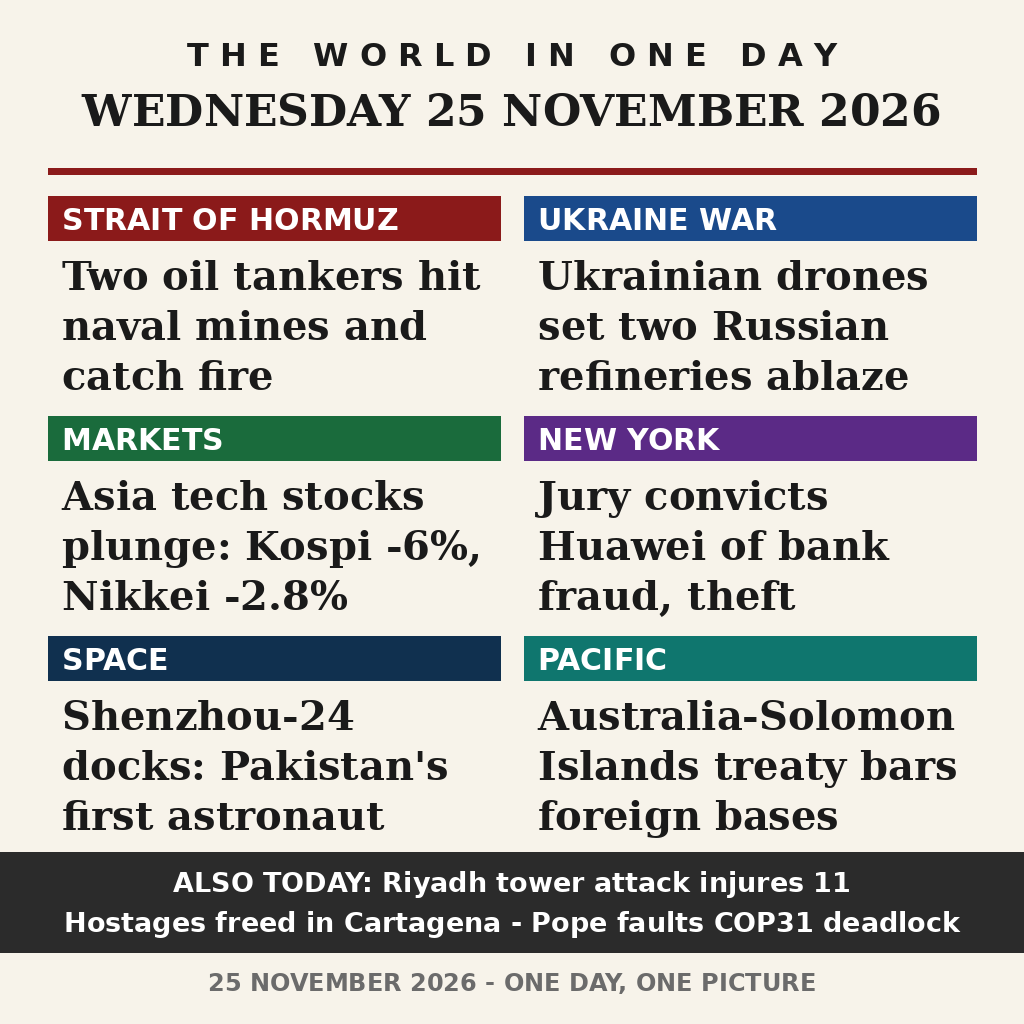
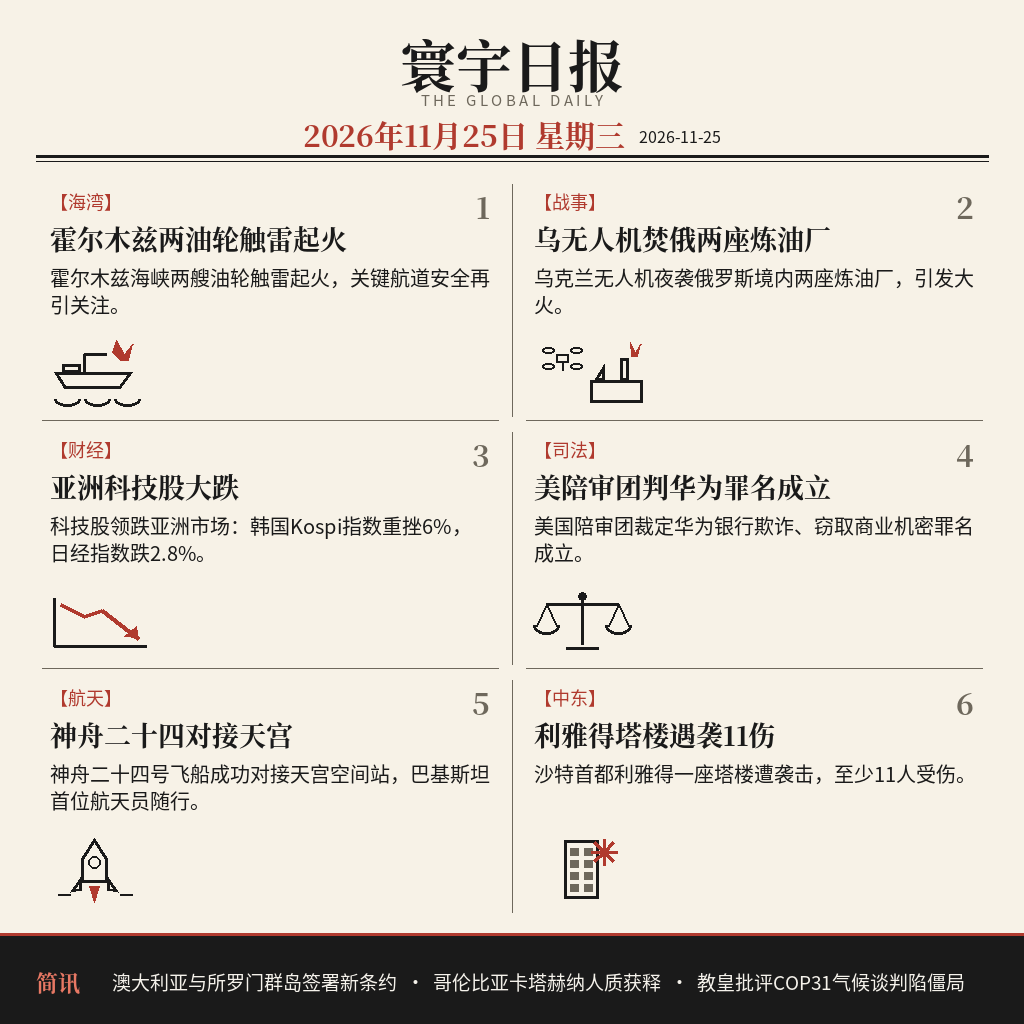
Rebuild entry: verified PIL newspaper front page (deterministic draw.py, self-checked entry.png)

diff --git a/draw.py b/draw.py
@@ -1,118 +1,251 @@
-"""Build-time generator for entry.png (run locally, NOT in the judging sandbox).
+#!/usr/bin/env python3
+"""Draw entry.png: a newspaper-style front page of 2026-11-25 world news.
 
-Deterministically draws a 1024x1024 newspaper-style summary of the world
-news of Wednesday 25 November 2026 and saves it as entry.png next to this
-file. No randomness, no timestamps, no text metadata in the PNG.
+Pure PIL, deterministic: no network, no randomness, no clock reads.
+Only the three system font files below are read.
 """
+import math
+import os
 
 from PIL import Image, ImageDraw, ImageFont
 
-W = H = 1024
-BG = "#f7f3ea"
-INK = "#1a1a1a"
-RED = "#8b1a1a"
-GREY = "#6b6b6b"
-BAR_BG = "#2b2b2b"
+SERIF_BOLD = "/usr/share/fonts/opentype/noto/NotoSerifCJK-Bold.ttc"
+SERIF_REG = "/usr/share/fonts/opentype/noto/NotoSerifCJK-Regular.ttc"
+SANS_REG = "/usr/share/fonts/opentype/noto/NotoSansCJK-Regular.ttc"
+FONT_INDEX = 2  # Simplified Chinese face inside the TTC collections
 
-SERIF = "/usr/share/fonts/truetype/dejavu/DejaVuSerif-Bold.ttf"
-SANS = "/usr/share/fonts/truetype/dejavu/DejaVuSans-Bold.ttf"
+W, H = 1024, 1024
+PAPER = (247, 242, 231)   # #f7f2e7
+INK = (26, 26, 26)        # #1a1a1a
+RED = (176, 58, 46)       # #b03a2e
+GREY = (110, 104, 92)
+WHITE = (245, 242, 235)
+LIGHT_RED = (232, 120, 100)
+
+MARGIN = 36
 
 
 def font(path, size):
-    return ImageFont.truetype(path, size)
-
-
-def centered(draw, y, text, fnt, fill):
-    w = draw.textlength(text, font=fnt)
-    draw.text(((W - w) / 2, y), text, font=fnt, fill=fill)
-    return y
+    return ImageFont.truetype(path, size, index=FONT_INDEX)
 
 
 def wrap(draw, text, fnt, max_width):
-    words = text.split()
+    """Wrap text by measured pixel width, character by character."""
     lines, cur = [], ""
-    for word in words:
-        trial = word if not cur else cur + " " + word
-        if draw.textlength(trial, font=fnt) <= max_width:
+    for ch in text:
+        trial = cur + ch
+        if ch in "。，、；：％%）":
+            # closing punctuation never starts a new line
             cur = trial
+        elif cur and draw.textlength(trial, font=fnt) > max_width:
+            lines.append(cur)
+            cur = ch
         else:
-            if cur:
-                lines.append(cur)
-            cur = word
+            cur = trial
     if cur:
         lines.append(cur)
-    return lines[:3]
+    return lines
 
 
-ITEMS = [
-    ("#8b1a1a", "STRAIT OF HORMUZ", "Two oil tankers hit naval mines and catch fire"),
-    ("#1a4a8b", "UKRAINE WAR", "Ukrainian drones set two Russian refineries ablaze"),
-    ("#1a6b3c", "MARKETS", "Asia tech stocks plunge: Kospi -6%, Nikkei -2.8%"),
-    ("#5b2a86", "NEW YORK", "Jury convicts Huawei of bank fraud, theft"),
-    ("#10304f", "SPACE", "Shenzhou-24 docks: Pakistan's first astronaut"),
-    ("#0f766e", "PACIFIC", "Australia-Solomon Islands treaty bars foreign bases"),
+def center(draw, text, fnt, y, fill):
+    w = draw.textlength(text, font=fnt)
+    draw.text(((W - w) / 2, y), text, font=fnt, fill=fill)
+    return w
+
+
+# ---------------------------------------------------------------- pictograms
+def pic_ship(d, x, y):
+    # tanker hull + mast + waves + flame
+    d.polygon([(x, y + 26), (x + 78, y + 26), (x + 66, y + 42), (x + 10, y + 42)],
+              outline=INK, width=3)
+    d.line([(x + 30, y + 26), (x + 30, y + 8), (x + 52, y + 8)], fill=INK, width=3)
+    d.rectangle([x + 8, y + 18, x + 26, y + 26], outline=INK, width=3)
+    for i in range(3):
+        wx = x + i * 30
+        d.arc([wx, y + 46, wx + 26, y + 60], 0, 180, fill=INK, width=3)
+    d.polygon([(x + 62, y - 6), (x + 70, y + 8), (x + 78, y - 2),
+               (x + 74, y + 14), (x + 66, y + 14), (x + 58, y + 6)], fill=RED)
+
+
+def pic_drone_factory(d, x, y):
+    # quadcopter drone above a factory, small flame
+    cx, cy = x + 24, y + 12
+    for dx, dy in ((-14, -8), (14, -8), (-14, 8), (14, 8)):
+        d.ellipse([cx + dx - 6, cy + dy - 3, cx + dx + 6, cy + dy + 3],
+                  outline=INK, width=2)
+    d.rectangle([cx - 6, cy - 4, cx + 6, cy + 4], outline=INK, width=2)
+    d.line([(cx, cy + 4), (cx, cy + 12)], fill=INK, width=2)
+    fx = x + 52
+    d.rectangle([fx, y + 34, fx + 52, y + 56], outline=INK, width=3)
+    d.polygon([(fx + 4, y + 34), (fx + 14, y + 18), (fx + 14, y + 34)],
+              outline=INK, width=3)
+    d.rectangle([fx + 30, y + 12, fx + 38, y + 34], outline=INK, width=3)
+    d.polygon([(fx + 40, y - 4), (fx + 45, y + 6), (fx + 50, y - 2),
+               (fx + 47, y + 10), (fx + 41, y + 10)], fill=RED)
+
+
+def pic_chart(d, x, y):
+    # falling polyline with arrow head, axis
+    d.line([(x, y + 4), (x, y + 52), (x + 92, y + 52)], fill=INK, width=3)
+    pts = [(x + 6, y + 10), (x + 30, y + 22), (x + 48, y + 16), (x + 84, y + 44)]
+    d.line(pts, fill=RED, width=4)
+    d.polygon([(x + 84, y + 44), (x + 70, y + 42), (x + 82, y + 32)], fill=RED)
+
+
+def pic_scales(d, x, y):
+    # balance scales
+    cx = x + 44
+    d.line([(cx, y + 2), (cx, y + 50)], fill=INK, width=3)
+    d.line([(x + 8, y + 10), (x + 80, y + 10)], fill=INK, width=3)
+    d.ellipse([cx - 4, y - 2, cx + 4, y + 6], fill=INK)
+    for px in (x + 8, x + 80):
+        d.line([(px, y + 10), (px - 10, y + 32)], fill=INK, width=2)
+        d.line([(px, y + 10), (px + 10, y + 32)], fill=INK, width=2)
+        d.arc([px - 13, y + 22, px + 13, y + 40], 0, 180, fill=INK, width=3)
+    d.line([(x + 28, y + 54), (x + 60, y + 54)], fill=INK, width=3)
+
+
+def pic_rocket(d, x, y):
+    # rocket with window and flame
+    cx = x + 40
+    d.polygon([(cx, y - 4), (cx + 13, y + 16), (cx + 13, y + 40),
+               (cx - 13, y + 40), (cx - 13, y + 16)], outline=INK, width=3)
+    d.ellipse([cx - 6, y + 14, cx + 6, y + 26], outline=INK, width=2)
+    d.polygon([(cx - 13, y + 34), (cx - 24, y + 50), (cx - 13, y + 48)],
+              outline=INK, width=3)
+    d.polygon([(cx + 13, y + 34), (cx + 24, y + 50), (cx + 13, y + 48)],
+              outline=INK, width=3)
+    d.polygon([(cx - 5, y + 44), (cx, y + 60), (cx + 5, y + 44)], fill=RED)
+    d.line([(x + 4, y + 52), (x + 16, y + 52)], fill=INK, width=2)
+    d.line([(x + 66, y + 52), (x + 78, y + 52)], fill=INK, width=2)
+
+
+def pic_tower(d, x, y):
+    # tower block with windows and an impact star
+    tx = x + 26
+    d.rectangle([tx, y - 2, tx + 34, y + 56], outline=INK, width=3)
+    for r in range(4):
+        for c in range(2):
+            d.rectangle([tx + 6 + c * 14, y + 6 + r * 12,
+                         tx + 14 + c * 14, y + 13 + r * 12], fill=GREY)
+    cx, cy = tx + 40, y + 10
+    for a in range(0, 360, 45):
+        x2 = cx + 13 * math.cos(math.radians(a))
+        y2 = cy + 13 * math.sin(math.radians(a))
+        d.line([(cx, cy), (x2, y2)], fill=RED, width=3)
+    d.ellipse([cx - 3, cy - 3, cx + 3, cy + 3], fill=RED)
+
+
+PICTOGRAMS = [pic_ship, pic_drone_factory, pic_chart,
+              pic_scales, pic_rocket, pic_tower]
+
+
+NEWS = [
+    ("海湾", "霍尔木兹两油轮触雷起火",
+     "霍尔木兹海峡两艘油轮触雷起火，关键航道安全再引关注。"),
+    ("战事", "乌无人机焚俄两座炼油厂",
+     "乌克兰无人机夜袭俄罗斯境内两座炼油厂，引发大火。"),
+    ("财经", "亚洲科技股大跌",
+     "科技股领跌亚洲市场：韩国Kospi指数重挫6%，日经指数跌2.8%。"),
+    ("司法", "美陪审团判华为罪名成立",
+     "美国陪审团裁定华为银行欺诈、窃取商业机密罪名成立。"),
+    ("航天", "神舟二十四对接天宫",
+     "神舟二十四号飞船成功对接天宫空间站，巴基斯坦首位航天员随行。"),
+    ("中东", "利雅得塔楼遇袭11伤",
+     "沙特首都利雅得一座塔楼遭袭击，至少11人受伤。"),
+]
+
+BRIEFS = [
+    "澳大利亚与所罗门群岛签署新条约",
+    "哥伦比亚卡塔赫纳人质获释",
+    "教皇批评COP31气候谈判陷僵局",
 ]
 
 
-def main() -> None:
-    img = Image.new("RGB", (W, H), BG)
-    draw = ImageDraw.Draw(img)
+def main():
+    img = Image.new("RGB", (W, H), PAPER)
+    d = ImageDraw.Draw(img)
 
-    # --- Header ---
-    f_kicker = font(SANS, 32)
-    kicker = "T H E   W O R L D   I N   O N E   D A Y"
-    centered(draw, 36, kicker, f_kicker, INK)
+    # ------------------------------------------------------------- masthead
+    f_mast = font(SERIF_BOLD, 56)
+    center(d, "寰宇日报", f_mast, 22, INK)
+    f_eng = font(SANS_REG, 15)
+    eng = "T H E   G L O B A L   D A I L Y"
+    ew = d.textlength(eng, font=f_eng)
+    d.text(((W - ew) / 2, 88), eng, font=f_eng, fill=GREY)
 
-    f_title = font(SERIF, 44)
-    centered(draw, 84, "WEDNESDAY 25 NOVEMBER 2026", f_title, INK)
+    f_date = font(SERIF_BOLD, 30)
+    date_main = "2026年11月25日 星期三"
+    dw = d.textlength(date_main, font=f_date)
+    f_date_small = font(SANS_REG, 16)
+    date_small = "2026-11-25"
+    sw = d.textlength(date_small, font=f_date_small)
+    total = dw + 14 + sw
+    x0 = (W - total) / 2
+    d.text((x0, 112), date_main, font=f_date, fill=RED)
+    d.text((x0 + dw + 14, 124), date_small, font=f_date_small, fill=INK)
 
-    draw.rectangle([48, 168, W - 48, 174], fill=RED)
+    # double rule under the masthead
+    d.line([(MARGIN, 156), (W - MARGIN, 156)], fill=INK, width=3)
+    d.line([(MARGIN, 161), (W - MARGIN, 161)], fill=INK, width=1)
 
-    # --- News grid: 2 columns x 3 rows ---
-    margin = 48
-    gap_x = 24
-    gap_y = 20
-    grid_top = 196
-    grid_bottom = 836
-    cell_w = (W - 2 * margin - gap_x) // 2
-    cell_h = (grid_bottom - grid_top - 2 * gap_y) // 3
+    # ------------------------------------------------------------- news grid
+    grid_top = 176
+    bar_top = H - 90
+    grid_bottom = bar_top - 14
+    col_w = (W - 2 * MARGIN - 16) / 2
+    row_h = (grid_bottom - grid_top) / 3
 
-    f_label = font(SANS, 30)
-    f_head = font(SERIF, 40)
-    label_h = 44
-    pad = 14
-    line_h = 50
+    f_cat = font(SANS_REG, 18)
+    f_title = font(SERIF_BOLD, 27)
+    f_body = font(SANS_REG, 20)
 
-    for idx, (color, region, headline) in enumerate(ITEMS):
-        col = idx % 2
-        row = idx // 2
-        x0 = margin + col * (cell_w + gap_x)
-        y0 = grid_top + row * (cell_h + gap_y)
-        x1 = x0 + cell_w
-        # label bar
-        draw.rectangle([x0, y0, x1, y0 + label_h], fill=color)
-        draw.text((x0 + pad, y0 + 6), region, font=f_label, fill="#ffffff")
-        # headline, wrapped to cell width
-        lines = wrap(draw, headline, f_head, cell_w - 2 * pad)
-        ty = y0 + label_h + 12
-        for line in lines:
-            draw.text((x0 + pad, ty), line, font=f_head, fill=INK)
-            ty += line_h
+    for i, (cat, title, body) in enumerate(NEWS):
+        col, row = i % 2, i // 2
+        cx = MARGIN + col * (col_w + 16)
+        cy = grid_top + row * row_h
+        inner_w = col_w - 28
+        tx = cx + 14
+        ty = cy + 12
+        # category tag
+        d.text((tx, ty), "【" + cat + "】", font=f_cat, fill=RED)
+        # big index number, top right of the cell
+        f_num = font(SERIF_BOLD, 30)
+        num = str(i + 1)
+        nw = d.textlength(num, font=f_num)
+        d.text((cx + col_w - 14 - nw, ty - 4), num, font=f_num, fill=GREY)
+        # title
+        d.text((tx, ty + 30), title, font=f_title, fill=INK)
+        # body, at most 3 lines
+        lines = wrap(d, body, f_body, inner_w)[:3]
+        for j, ln in enumerate(lines):
+            d.text((tx, ty + 74 + j * 27), ln, font=f_body, fill=INK)
+        # pictogram
+        PICTOGRAMS[i](d, tx + 4, cy + row_h - 78)
+        # separators
+        if col == 0:
+            d.line([(MARGIN + col_w + 8, cy + 8),
+                    (MARGIN + col_w + 8, cy + row_h - 8)], fill=GREY, width=1)
+        if row < 2:
+            d.line([(cx + 6, cy + row_h - 4), (cx + col_w - 6, cy + row_h - 4)],
+                   fill=GREY, width=1)
 
-    # --- Bottom bar ---
-    bar_top = 852
-    bar_bottom = 952
-    draw.rectangle([0, bar_top, W, bar_bottom], fill=BAR_BG)
-    f_bar = font(SANS, 27)
-    centered(draw, bar_top + 14, "ALSO TODAY: Riyadh tower attack injures 11", f_bar, "#ffffff")
-    centered(draw, bar_top + 54, "Hostages freed in Cartagena - Pope faults COP31 deadlock", f_bar, "#ffffff")
+    # ------------------------------------------------------------- briefs bar
+    d.rectangle([0, bar_top, W, H], fill=INK)
+    f_tag = font(SERIF_BOLD, 22)
+    d.text((MARGIN, bar_top + 31), "简讯", font=f_tag, fill=LIGHT_RED)
+    f_brief = font(SANS_REG, 19)
+    brief_text = "  •  ".join(BRIEFS)
+    blines = wrap(d, brief_text, f_brief, W - 2 * MARGIN - 76)[:2]
+    brief_y = bar_top + (90 - len(blines) * 28) // 2 + 2
+    for j, ln in enumerate(blines):
+        d.text((MARGIN + 76, brief_y + j * 28), ln, font=f_brief, fill=WHITE)
+    # thin red rule on top of the bar
+    d.line([(0, bar_top), (W, bar_top)], fill=RED, width=3)
 
-    # --- Footer ---
-    f_foot = font(SANS, 24)
-    centered(draw, 968, "25 NOVEMBER 2026 - ONE DAY, ONE PICTURE", f_foot, GREY)
-
-    out_path = __file__.rsplit("/", 1)[0] + "/entry.png"
-    img.save(out_path)
+    out = os.path.join(os.path.dirname(os.path.abspath(__file__)), "entry.png")
+    img.save(out, format="PNG")
+    print(out)
 
 
 if __name__ == "__main__":

diff --git a/main.py b/main.py
@@ -1,23 +1,18 @@
-"""make.fun entry: copy the pre-built news image to the output directory.
-
-The judging sandbox provides only the Python standard library, so this
-program does exactly one thing: copy entry.png (which lives next to this
-file) into the output directory as entry.png.
-"""
-
+#!/usr/bin/env python3
+"""make.fun entry point: copy the drawn entry.png into the output dir."""
 import os
 import shutil
 
-OUTPUT_NAME = "entry.png"
+HERE = os.path.dirname(os.path.abspath(__file__))
+SRC = os.path.join(HERE, "entry.png")
+OUT_DIR = os.environ.get("MAKEFUN_OUTPUT_DIR", "/output")
 
 
-def main() -> None:
-    here = os.path.dirname(os.path.abspath(__file__))
-    src = os.path.join(here, OUTPUT_NAME)
-    out_dir = os.environ.get("MAKEFUN_OUTPUT_DIR", "/output")
-    os.makedirs(out_dir, exist_ok=True)
-    dst = os.path.join(out_dir, OUTPUT_NAME)
-    shutil.copyfile(src, dst)
+def main():
+    os.makedirs(OUT_DIR, exist_ok=True)
+    dst = os.path.join(OUT_DIR, "entry.png")
+    shutil.copyfile(SRC, dst)
+    print(dst)
 
 
 if __name__ == "__main__":

diff --git a/README.md b/README.md
@@ -1,7 +1,9 @@
-# News Image — 25 November 2026
+# news-image-20261125 — 寰宇日报新闻图
 
-This is the entry repository for the make.fun **news-image-20261125** bounty: the world news of 25 November 2026 summarised in a single picture. The program (`main.py`, Python standard library only) copies the pre-built `entry.png` to `/output/entry.png`; the image itself is generated at build time by `draw.py` using PIL.
+![Competition badge](https://make.fun/badge/news-image-20261125.svg)
+![Rank](https://make.fun/badge/news-image-20261125/Lisanye9527/news-image-20261125/rank.svg)
+![Reward](https://make.fun/badge/news-image-20261125/Lisanye9527/news-image-20261125/reward.svg)
 
-[![make.fun · news-image-20261125](https://make.fun/badge/news-image-20261125.svg)](https://make.fun/bounty/news-image-20261125)
-[![rank](https://make.fun/badge/news-image-20261125/Lisanye9527/news-image-20261125/rank.svg)](https://make.fun/bounty/news-image-20261125/leaderboard)
-[![reward](https://make.fun/badge/news-image-20261125/Lisanye9527/news-image-20261125/reward.svg)](https://make.fun/bounty/news-image-20261125)
+[make.fun 竞赛页](https://make.fun/c/news-image-20261125)
+
+本仓是 make.fun 竞赛 news-image-20261125 的参赛程序：`draw.py` 用 PIL 程序绘制一版 2026-11-25 世界新闻报纸风图片（`entry.png`，1024×1024），`main.py` 将其写入输出目录（`MAKEFUN_OUTPUT_DIR`，默认 `/output`）下的 `entry.png`。
